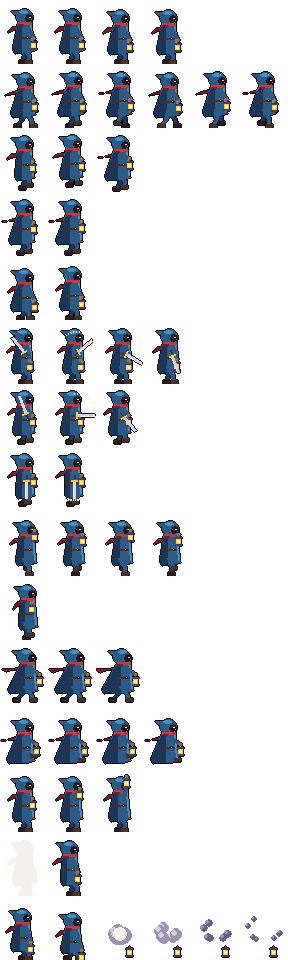
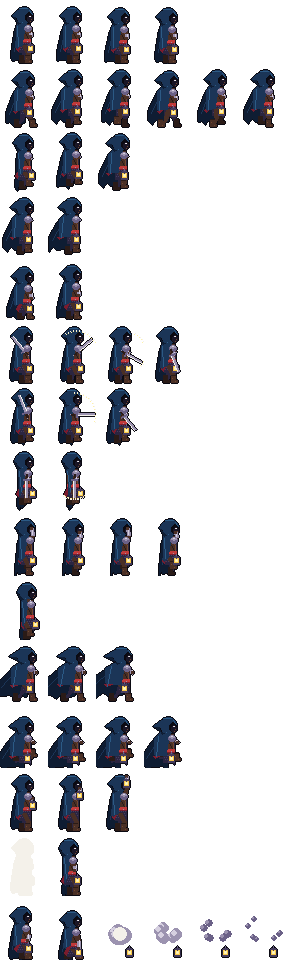
Shadowfall C2 WIP: Lanternbearer side sheet to the concept art; concept refs in docs/teen/art/ref

diff --git a/shadowfall/art/src/make_hero.py b/shadowfall/art/src/make_hero.py
@@ -1,34 +1,47 @@
-"""The Hero: a hooded wanderer with a lantern (deep-blue cloak, ember scarf, gold lantern).
-Side sheet 48x64 (caves, faces right) and top-down sheet 32x48 (the realm). Original art."""
+"""The Hero, the Lanternbearer (docs/teen/art/ref/lanternbearer_concept.jpg): a midnight-blue hood up, the face
+in shadow but for pale eyes, a long torn cloak, dark leather and chainmail, one steel pauldron and steel vambraces
+on the sword arm, a blood-red sash, muddy boots, and an iron-caged lantern on the belt (the brightest thing on
+screen; it swings). Side sheet 48x64 (caves, faces right) and top-down sheet 32x48 (the realm). Original art."""
 import math
 
 from sfart import Sheet, circle, ellipse, flash, line, outline, poly, poof, px, rect, surf
 
-CLOAK = ("water1", "water2", "water3")  # shadow, base, light
-SCARF = ("ember1", "ember2")
+CLOAK = ("water0", "water1", "water2")  # shadow, base, light: deep midnight blue
+SASH = ("ember1", "ember2")
 SKIN = ("earth2", "earth3")
 BOOT = ("earth0", "earth1")
+LEATHER = ("earth0", "earth1", "earth2")
+STEEL = ("ink4", "ink5", "ink6")
+MAIL = ("ink2", "ink3")
 
 
 def lantern(s, x, y, glow=True):
-    """Hangs from (x, y): ring, cap, glass, base. ~6x10."""
-    line(s, "ink4", (x, y), (x, y + 2))
-    rect(s, "ink3", x - 3, y + 2, 7, 2)
+    """An iron-caged lantern hanging from (x, y): ring, cap, flame behind bars, base. ~7x11."""
+    line(s, "ink4", (x, y), (x, y + 1))
+    poly(s, "ink3", [(x - 2, y + 2), (x + 2, y + 2), (x + 3, y + 3), (x - 3, y + 3)])
     rect(s, "light0", x - 2, y + 4, 5, 5)
     if glow:
         rect(s, "light1", x - 1, y + 5, 3, 3)
+        px(s, "ink7", x, y + 6)
+    for bx in (x - 3, x + 3):
+        line(s, "ink2", (bx, y + 4), (bx, y + 8))
+    line(s, "ink3", (x, y + 4), (x, y + 4))
     rect(s, "ink3", x - 3, y + 9, 7, 2)
 
 
-def sword(s, hx, hy, ang, length=20):
-    """Hilt at (hx, hy), pointing at angle ang (degrees, 0 = right, 90 = down)."""
+def sword(s, hx, hy, ang, length=20, runes=False):
+    """A plain longsword, hilt at (hx, hy), pointing at ang (degrees, 0 = right, 90 = down)."""
     a = math.radians(ang)
     dx, dy = math.cos(a), math.sin(a)
     tip = (hx + dx * length, hy + dy * length)
-    line(s, "ink6", (hx + dx * 3, hy + dy * 3), tip, 3)
+    line(s, "ink5", (hx + dx * 3, hy + dy * 3), tip, 3)
     line(s, "ink7", (hx + dx * 4 - dy, hy + dy * 4 + dx), (tip[0] - dy, tip[1] + dx))
-    line(s, "earth1", (hx - dx * 3, hy - dy * 3), (hx, hy), 2)
-    line(s, "light0", (hx + dx * 2 - dy * 3, hy + dy * 2 + dx * 3), (hx + dx * 2 + dy * 3, hy + dy * 2 - dx * 3), 2)
+    if runes:  # Sunfang: ember runes down the fuller
+        for k in range(4, int(length) - 2, 4):
+            px(s, "ember3", hx + dx * k, hy + dy * k)
+    line(s, "earth0", (hx - dx * 3, hy - dy * 3), (hx, hy), 2)
+    px(s, "ink5", hx - dx * 4, hy - dy * 4)
+    line(s, "ink4", (hx + dx * 2 - dy * 3, hy + dy * 2 + dx * 3), (hx + dx * 2 + dy * 3, hy + dy * 2 - dx * 3), 2)
 
 
 def slash(s, cx, cy, r, a0, a1):
@@ -39,54 +52,99 @@ def slash(s, cx, cy, r, a0, a1):
             px(s, "light1" if k else "ink7", cx + math.cos(a) * (r - k), cy + math.sin(a) * (r - k))
 
 
-def leg(s, hip, foot, col):
+def torn(x0, x1, y, n, depth, seed=0):
+    """A ragged hem from (x0, y) to (x1, y): n teeth hanging down by up to depth."""
+    pts = []
+    for k in range(n + 1):
+        x = x0 + (x1 - x0) * k / n
+        pts.append((x, y + (depth if (k + seed) % 2 else depth // 3) + ((k * 7 + seed) % 3) - 1))
+    return pts
+
+
+def leg(s, hip, foot, near):
     knee = ((hip[0] + foot[0]) / 2 + 2, (hip[1] + foot[1]) / 2)
-    line(s, col, hip, knee, 5)
-    line(s, col, knee, foot, 4)
-    rect(s, BOOT[1] if col == CLOAK[1] else BOOT[0], foot[0] - 2, foot[1] - 2, 7, 4)
+    pants = "earth1" if near else "ink2"
+    line(s, pants, hip, knee, 5)
+    line(s, pants, knee, foot, 4)
+    bt = BOOT[1] if near else BOOT[0]
+    rect(s, bt, foot[0] - 2, foot[1] - 7, 5, 6)
+    rect(s, bt, foot[0] - 2, foot[1] - 2, 7, 3)
+    if near:
+        rect(s, "earth0", foot[0] - 2, foot[1] - 7, 5, 1)  # boot cuff
+        px(s, "earth2", foot[0] + 2, foot[1] - 1)          # mud
+        px(s, "earth2", foot[0] - 1, foot[1] - 4)
 
 
 def side(bob=0, front=(3, 0), back=(-3, 0), sway=0, scarf=0, hand=(9, 38), lamp=True,
-         sword_ang=None, arc=None, crouch=0, lean=0, hood_back=0):
-    """One side-view frame. Feet offsets are from the standing spot; hand is the lantern hand."""
+         sword_ang=None, arc=None, crouch=0, lean=0, hood_back=0, lamp_hand=False):
+    """One side-view frame. Feet offsets are from the standing spot; hand is the sword hand. sway streams the
+    cloak back, scarf the sash tail. lamp_hand: the lantern is held up in the hand instead of on the belt."""
     s = surf(48, 64)
     cx, g = 24 + lean, 62
-    hip = (24, 46 + bob + crouch)
-    # back leg, back cloak, scarf tail
-    leg(s, hip, (24 + back[0], g + back[1]), CLOAK[0])
-    top = 23 + bob + crouch
-    hem = 52 + bob + crouch // 2
-    tail = [(cx - 3, top + 2), (cx - 12 - scarf, top + 4 + scarf // 2), (cx - 16 - scarf, top + 9 - scarf // 3),
-            (cx - 9, top + 6)]
-    poly(s, SCARF[0], tail)
-    poly(s, CLOAK[1], [(cx - 6, top), (cx + 7, top), (cx + 10, hem - 2), (cx + 4, hem), (cx - 9 - sway, hem + 1),
-                       (cx - 11 - sway, hem - 3)])
-    poly(s, CLOAK[0], [(cx - 6, top + 2), (cx - 2, top + 3), (cx - 3, hem), (cx - 9 - sway, hem + 1),
-                       (cx - 11 - sway, hem - 3)])
-    line(s, CLOAK[2], (cx + 6, top + 2), (cx + 8, hem - 4), 2)
-    # front leg
-    leg(s, hip, (24 + front[0], g + front[1]), CLOAK[1])
-    # belt
-    rect(s, "earth1", cx - 6, hip[1] - 9, 13, 2)
-    px(s, "light0", cx + 3, hip[1] - 9)
-    # hood
-    hy = 9 + bob + crouch
-    ellipse(s, CLOAK[1], cx - 8 - hood_back, hy, 17, 16)
-    poly(s, CLOAK[1], [(cx - 8 - hood_back, hy + 6), (cx - 13 - hood_back, hy + 2), (cx - 6, hy + 2)])
-    ellipse(s, CLOAK[2], cx - 5, hy + 1, 9, 4)
-    ellipse(s, "ink1", cx + 1, hy + 5, 8, 9)
-    px(s, SKIN[1], cx + 7, hy + 10)
-    px(s, SKIN[0], cx + 6, hy + 12)
-    rect(s, "light1", cx + 5, hy + 8, 2, 1)
-    # scarf wrap
-    rect(s, SCARF[1], cx - 6, top - 1, 14, 3)
-    rect(s, SCARF[0], cx - 6, top + 1, 6, 2)
-    # lantern arm (front)
-    sh = (cx + 4, top + 5)
-    hx, hy2 = cx + hand[0] - 9 + 9, hand[1] + bob + crouch
-    line(s, CLOAK[1], sh, (hx, hy2), 4)
-    rect(s, SKIN[1], hx - 1, hy2 - 1, 3, 3)
-    if lamp:
+    hip = (24, 45 + bob + crouch)
+    top = 22 + bob + crouch
+    hem = 57 + bob + crouch // 2
+    # the cloak's back half, behind everything: long, torn, streaming
+    back_hem = torn(cx - 13 - sway * 2, cx - 1, hem - sway // 2, 5, 4, seed=sway)
+    poly(s, CLOAK[0], [(cx - 5, top - 1), (cx + 1, top)] + back_hem[::-1] +
+         [(cx - 12 - sway * 2, hem - 8 - sway), (cx - 9 - sway, top + 8)])
+    line(s, CLOAK[1], (cx - 6, top + 2), (cx - 10 - sway * 2, hem - 6 - sway // 2))
+    leg(s, hip, (24 + back[0], g + back[1]), False)
+    # body: leather jerkin over chainmail, the mail skirt torn at the hem
+    poly(s, MAIL[0], torn(cx - 5, cx + 6, hip[1] + 5, 4, 3, 1)[::-1] + [(cx - 5, top + 4), (cx + 6, top + 4)])
+    for y in range(top + 5, hip[1] + 6, 2):
+        for x in range(cx - 4 + (y // 2) % 2, cx + 6, 2):
+            px(s, MAIL[1], x, y)
+    poly(s, LEATHER[1], [(cx - 5, top + 2), (cx + 5, top + 2), (cx + 6, hip[1] - 4), (cx - 5, hip[1] - 4)])
+    line(s, LEATHER[2], (cx + 4, top + 3), (cx + 5, hip[1] - 5))
+    line(s, LEATHER[0], (cx - 4, top + 3), (cx + 4, hip[1] - 7), 1)  # cross strap
+    leg(s, hip, (24 + front[0], g + front[1]), True)
+    # blood-red sash with a fluttering tail, belt buckle
+    rect(s, SASH[1], cx - 5, hip[1] - 6, 12, 4)
+    rect(s, SASH[0], cx - 5, hip[1] - 3, 12, 1)
+    poly(s, SASH[0], [(cx - 4, hip[1] - 4), (cx - 1, hip[1] - 3), (cx - 6 - scarf, hip[1] + 6 - scarf // 2),
+                      (cx - 8 - scarf, hip[1] + 4 - scarf // 2)])
+    px(s, "ink5", cx + 3, hip[1] - 4)
+    # the lantern on the belt, swinging
+    if lamp and not lamp_hand:
+        lantern(s, cx + 6 - round(sway / 2), hip[1] - 3)
+    # the cloak over the back shoulder
+    poly(s, CLOAK[1], [(cx - 6, top - 1), (cx + 3, top - 1), (cx + 1, top + 6), (cx - 2, hem - 12),
+                       (cx - 7 - sway, hem - 9 - sway // 2), (cx - 8 - sway, top + 6)])
+    line(s, CLOAK[2], (cx - 7 - sway // 2, top + 4), (cx - 6 - sway, hem - 11))
+    # hood, peak trailing back, face in shadow, pale eyes
+    hy = 7 + bob + crouch
+    hb = hood_back
+    ellipse(s, CLOAK[1], cx - 8 - hb, hy, 17, 17)
+    poly(s, CLOAK[1], [(cx - 7 - hb, hy + 3), (cx - 12 - hb - sway // 2, hy + 9), (cx - 5, hy + 11)])
+    poly(s, CLOAK[0], [(cx - 9 - hb, hy + 10), (cx - 12 - hb - sway // 2, hy + 9), (cx - 4, hy + 16), (cx - 6, hy + 17)])
+    line(s, CLOAK[2], (cx - 5 - hb, hy + 1), (cx + 3, hy + 1))
+    line(s, CLOAK[2], (cx + 5, hy + 3), (cx + 8, hy + 7))
+    ellipse(s, "ink0", cx + 1, hy + 5, 8, 11)
+    ellipse(s, "ink1", cx + 3, hy + 8, 6, 8)
+    px(s, "ink6", cx + 5, hy + 9)
+    px(s, "ink7", cx + 6, hy + 9)
+    px(s, SKIN[0], cx + 7, hy + 12)
+    px(s, SKIN[0], cx + 6, hy + 14)
+    px(s, CLOAK[2], cx - 2, hy + 15)                   # cloak clasp
+    # the sword arm: steel pauldron, vambrace, gloved hand
+    sh = (cx + 4, top + 6)
+    if lamp_hand:
+        hx, hy2 = cx + hand[0] - 9 + 9, hand[1] + bob + crouch
+    elif sword_ang is not None:
+        hx, hy2 = cx + 2 + round(math.cos(math.radians(sword_ang)) * 3), top + 10 + round(math.sin(math.radians(sword_ang)) * 3)
+    else:
+        hx, hy2 = cx + hand[0] - 3, hand[1] + bob + crouch - 2
+    el = ((sh[0] + hx) / 2 + 1, (sh[1] + hy2) / 2 + 1)
+    line(s, LEATHER[1], sh, el, 4)
+    line(s, STEEL[1], el, (hx, hy2), 4)
+    line(s, STEEL[2], (el[0] + 1, el[1] - 1), (hx + 1, hy2 - 1))
+    rect(s, LEATHER[1], hx - 1, hy2 - 1, 3, 3)
+    ellipse(s, STEEL[0], sh[0] - 4, sh[1] - 3, 8, 7)
+    ellipse(s, STEEL[1], sh[0] - 3, sh[1] - 3, 6, 4)
+    px(s, STEEL[2], sh[0] - 1, sh[1] - 2)
+    px(s, STEEL[2], sh[0], sh[1] - 2)
+    if lamp_hand:
         lantern(s, hx, hy2 + 1)
     if sword_ang is not None:
         sword(s, cx + 2, top + 10, sword_ang)
@@ -130,7 +188,8 @@ def side_sheet():
                     for k in range(3)], 14, False)
     sh.add("swim", [side(bob=6, front=(8, -10 + 4 * (i % 2)), back=(-9, -10 + 4 * ((i + 1) % 2)), sway=6,
                          scarf=7, lamp=True, hand=(12, 34)) for i in range(4)], 8)
-    sh.add("lantern_raise", [side(hand=(8, 30)), side(hand=(7, 20)), side(hand=(6, 8))], 10, False)
+    sh.add("lantern_raise", [side(hand=(8, 30), lamp_hand=True), side(hand=(7, 20), lamp_hand=True),
+                             side(hand=(6, 8), lamp_hand=True)], 10, False)
     base = side()
     sh.add("hurt", [flash(base), side(lean=-3, sway=-3, hand=(8, 40))], 12, False)
     death = [side(crouch=4, lean=-2, hand=(8, 42)), side(crouch=8, front=(6, 0), back=(-6, 0), hand=(9, 46), lamp=True)]

diff --git a/.handoff/monte-flora-c2-lanternbearer.md b/.handoff/monte-flora-c2-lanternbearer.md
@@ -1,0 +1,23 @@
+# Handoff: Lanternbearer + Shadow King redraws, 2026-11-22
+
+## Done
+- PR #46 merged (task_d6243cc65949): pause SOUND tab "Screen shake" row + ui test; rules/names.gd realm ids in LAND,
+  SUNFANG, LIEUTENANT (Vargoth the Thornwarden, Ysmera the Loom Widow, ...); boss/ reads Names directly
+  (Castle.display removed); frost_matriarch redrawn (crowned ice spider, frost-breath attack).
+- This branch (monte-flora/c2-lanternbearer, WIP, no PR yet): concepts committed to docs/teen/art/ref/;
+  art/src/make_hero.py side() rewritten to the concept (midnight hood water0-2, ink0 face + ink6/7 eyes, long torn
+  cloak streaming with `sway`, leather earth0-2 + mail ink2/3 checker, steel pauldron + vambrace, ember sash with tail,
+  caged lantern on the belt swinging; `lamp_hand=True` puts it in the hand, used by lantern_raise). sheets/hero_side.png
+  rebuilt. sword() has a `runes=` flag (Sunfang ember runes) not yet used anywhere.
+
+## Next (coordinator msgs msg_dc2babfb850b, msg_b832550a8c75; user: "as close to this as we can get")
+1. Polish side: pauldron reads as a grey ball on the chest; make it a shoulder plate (flatter, over the arm top).
+2. Rewrite top() (32x48, down/up/side) in the same style; rebuild: `cd shadowfall/art/src && SDL_VIDEODRIVER=dummy <py> -c "import make_hero as m; m.main()"`.
+3. Large portrait ~128x160 from the concept (new art/sheets or art/ui png, Shadowfall 32 only), wire into ui/title.gd and ui/pause.gd (small).
+4. Screenshots 1x and 2x beside the concept (scratch zoom: pygame scale of sheet crops). `sh shadowfall/tools/run_tests.sh` (ArtCheck) + pytest. PR into phase-2.
+5. Then a separate PR: Shadow King (art/src/make_king.py, 192x256 all phase anims) to docs/teen/art/ref/shadow_king_concept.jpg
+   (spiked black plate, jagged iron crown + violet gem, faceless helm with violet eyes, violet crystal heart + belt gem, torn
+   violet/black rune-trim cloak, jagged black greatsword w/ violet gem, gauntlet with violet wisps, soft aura; shadow ramp + ink;
+   violet the brightest) + portrait ~160x200 for boss intro/title card.
+6. worker_done (task_d6243cc65949, dispatch ctx_e26f7203c01c) with all PR numbers.
+- py = /Users/montgomeryflora/noah-adventure/.pixi/envs/default/bin/python. Sunfang runes: not wired (no Sunfang hero sheet yet); note as ask.
